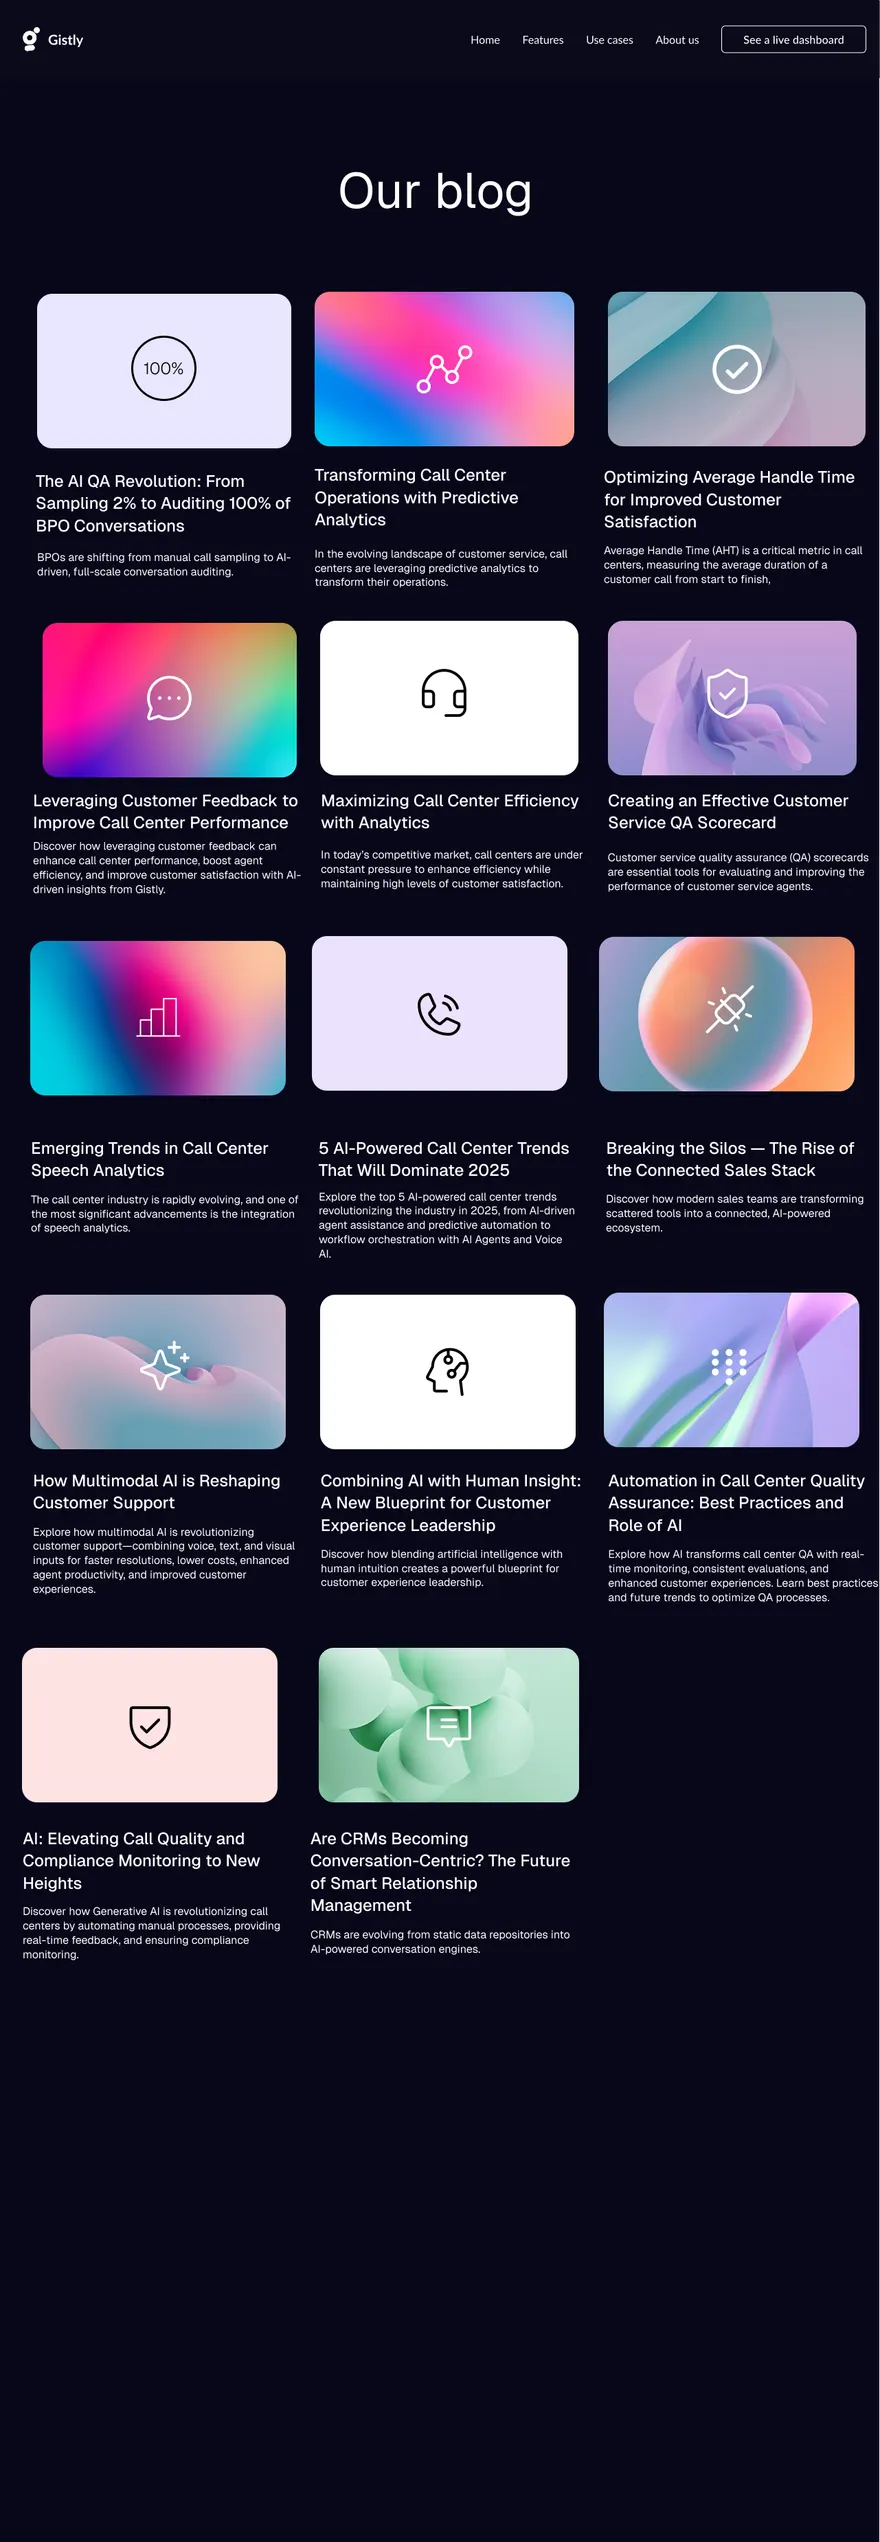
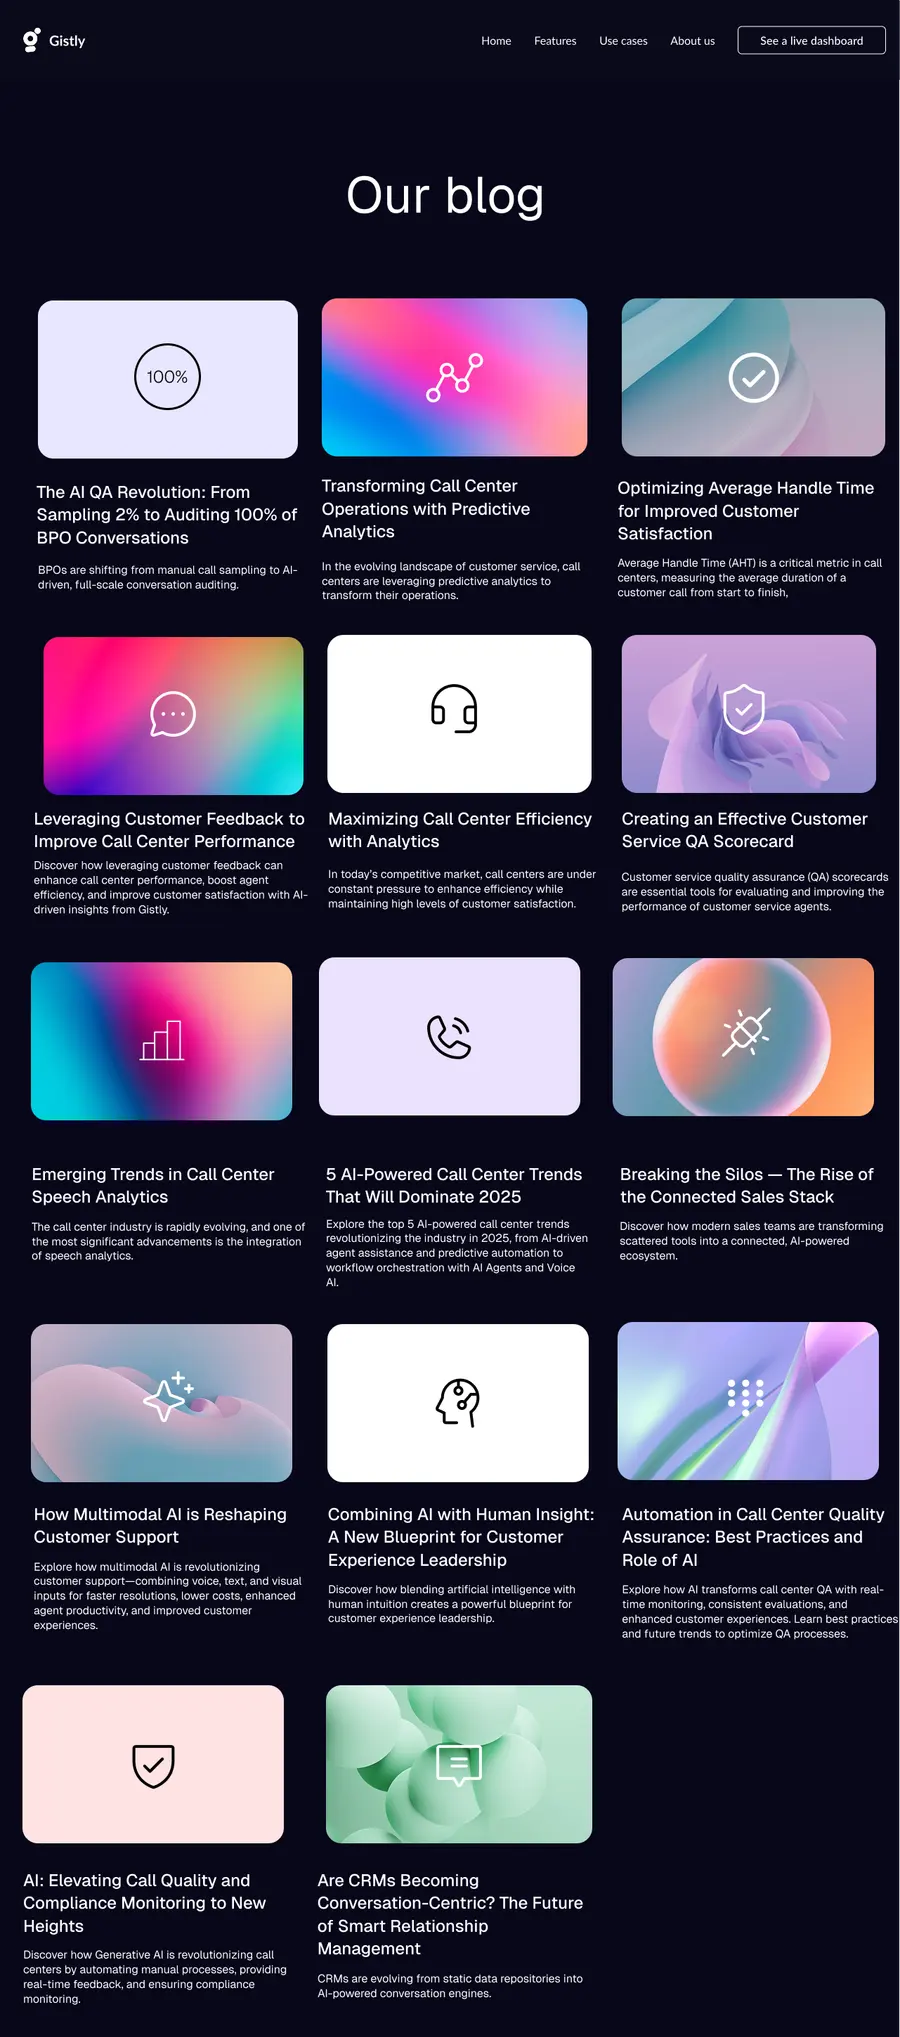
Sharpen the case study panel, and let the two pages be unequal
Three things were wrong with it. The captures were exported at 880px
while the wide column renders about 700 CSS px, so on any retina screen
they resolved at roughly 1.25x and read as soft; they are now 1400px and
900px, landing at 2.0x and 2.1x. The columns were an even split, which
made two pages compete rather than one lead; they are now 1.62 : 1. And
the ground was a theme token, so dark captures sat on cream in light
mode — it is now a fixed dark, since these are dark-theme screenshots
whichever way the site is set.

The mask that faded both ends is gone, along with the border. The clip
is the edge now.

The blog capture carried 840px of empty background below its last row,
which scrolled through the frame as a long dead gap. Measured off the
image rather than guessed at, and cropped.

diff --git a/src/index.css b/src/index.css
@@ -2036,29 +2036,30 @@ a:focus-visible {
 /* The homepage case study's opening panel: two page screenshots tracking
    vertically inside one clipped frame, in opposite directions.
 
-   The height is viewport-relative and capped, so the frame stays a window onto
-   the pages rather than growing into a wall of screenshot on a tall monitor.
+   The ground is a fixed dark, not a theme token — these are dark-theme captures
+   and they need a dark surround to sit on whichever way the site is set. No
+   border and no fade at the ends: the clip is the edge, which is what makes it
+   read as a window rather than a decorated box.
+
    Each column holds its image twice and travels -50%, which puts the duplicate
-   exactly where the original started — the loop has no seam to hide. */
+   exactly where the original started, so the loop has no seam. */
 .case-scroller {
   display: grid;
-  grid-template-columns: 1fr 1fr;
-  gap: 14px;
-  height: clamp(380px, 64vh, 620px);
+  /* Deliberately uneven: a lead page and a companion beside it, rather than two
+     columns competing for the same attention. */
+  grid-template-columns: 1.62fr 1fr;
+  gap: clamp(12px, 1.6vw, 22px);
+  height: clamp(380px, 66vh, 660px);
   margin: 0 0 var(--space-lg);
-  padding: 14px;
+  padding: clamp(14px, 2.2vw, 28px);
   overflow: hidden;
-  border: 1px solid var(--line);
   border-radius: 20px;
-  background: color-mix(in srgb, var(--ink) 6%, transparent);
-  /* Softens both ends so a page's footer meeting its own header reads as a
-     fade rather than a cut. */
-  mask-image: linear-gradient(to bottom, transparent 0, #000 7%, #000 93%, transparent 100%);
+  background: #0E0E0C;
 }
 
 .case-scroller-col {
   overflow: hidden;
-  border-radius: 12px;
+  border-radius: 10px;
 }
 
 .case-scroller-track {
@@ -2073,8 +2074,8 @@ a:focus-visible {
   height: auto;
 }
 
-/* Slow on purpose: this is meant to drift, not to demand attention while
-   someone is reading the paragraphs underneath it. */
+/* Slow on purpose: this sits above the paragraphs, not instead of them. The
+   two speeds differ so neither column looks like it is chasing the other. */
 .case-scroller-col--up .case-scroller-track {
   animation: case-scroll-up 150s linear infinite;
 }
